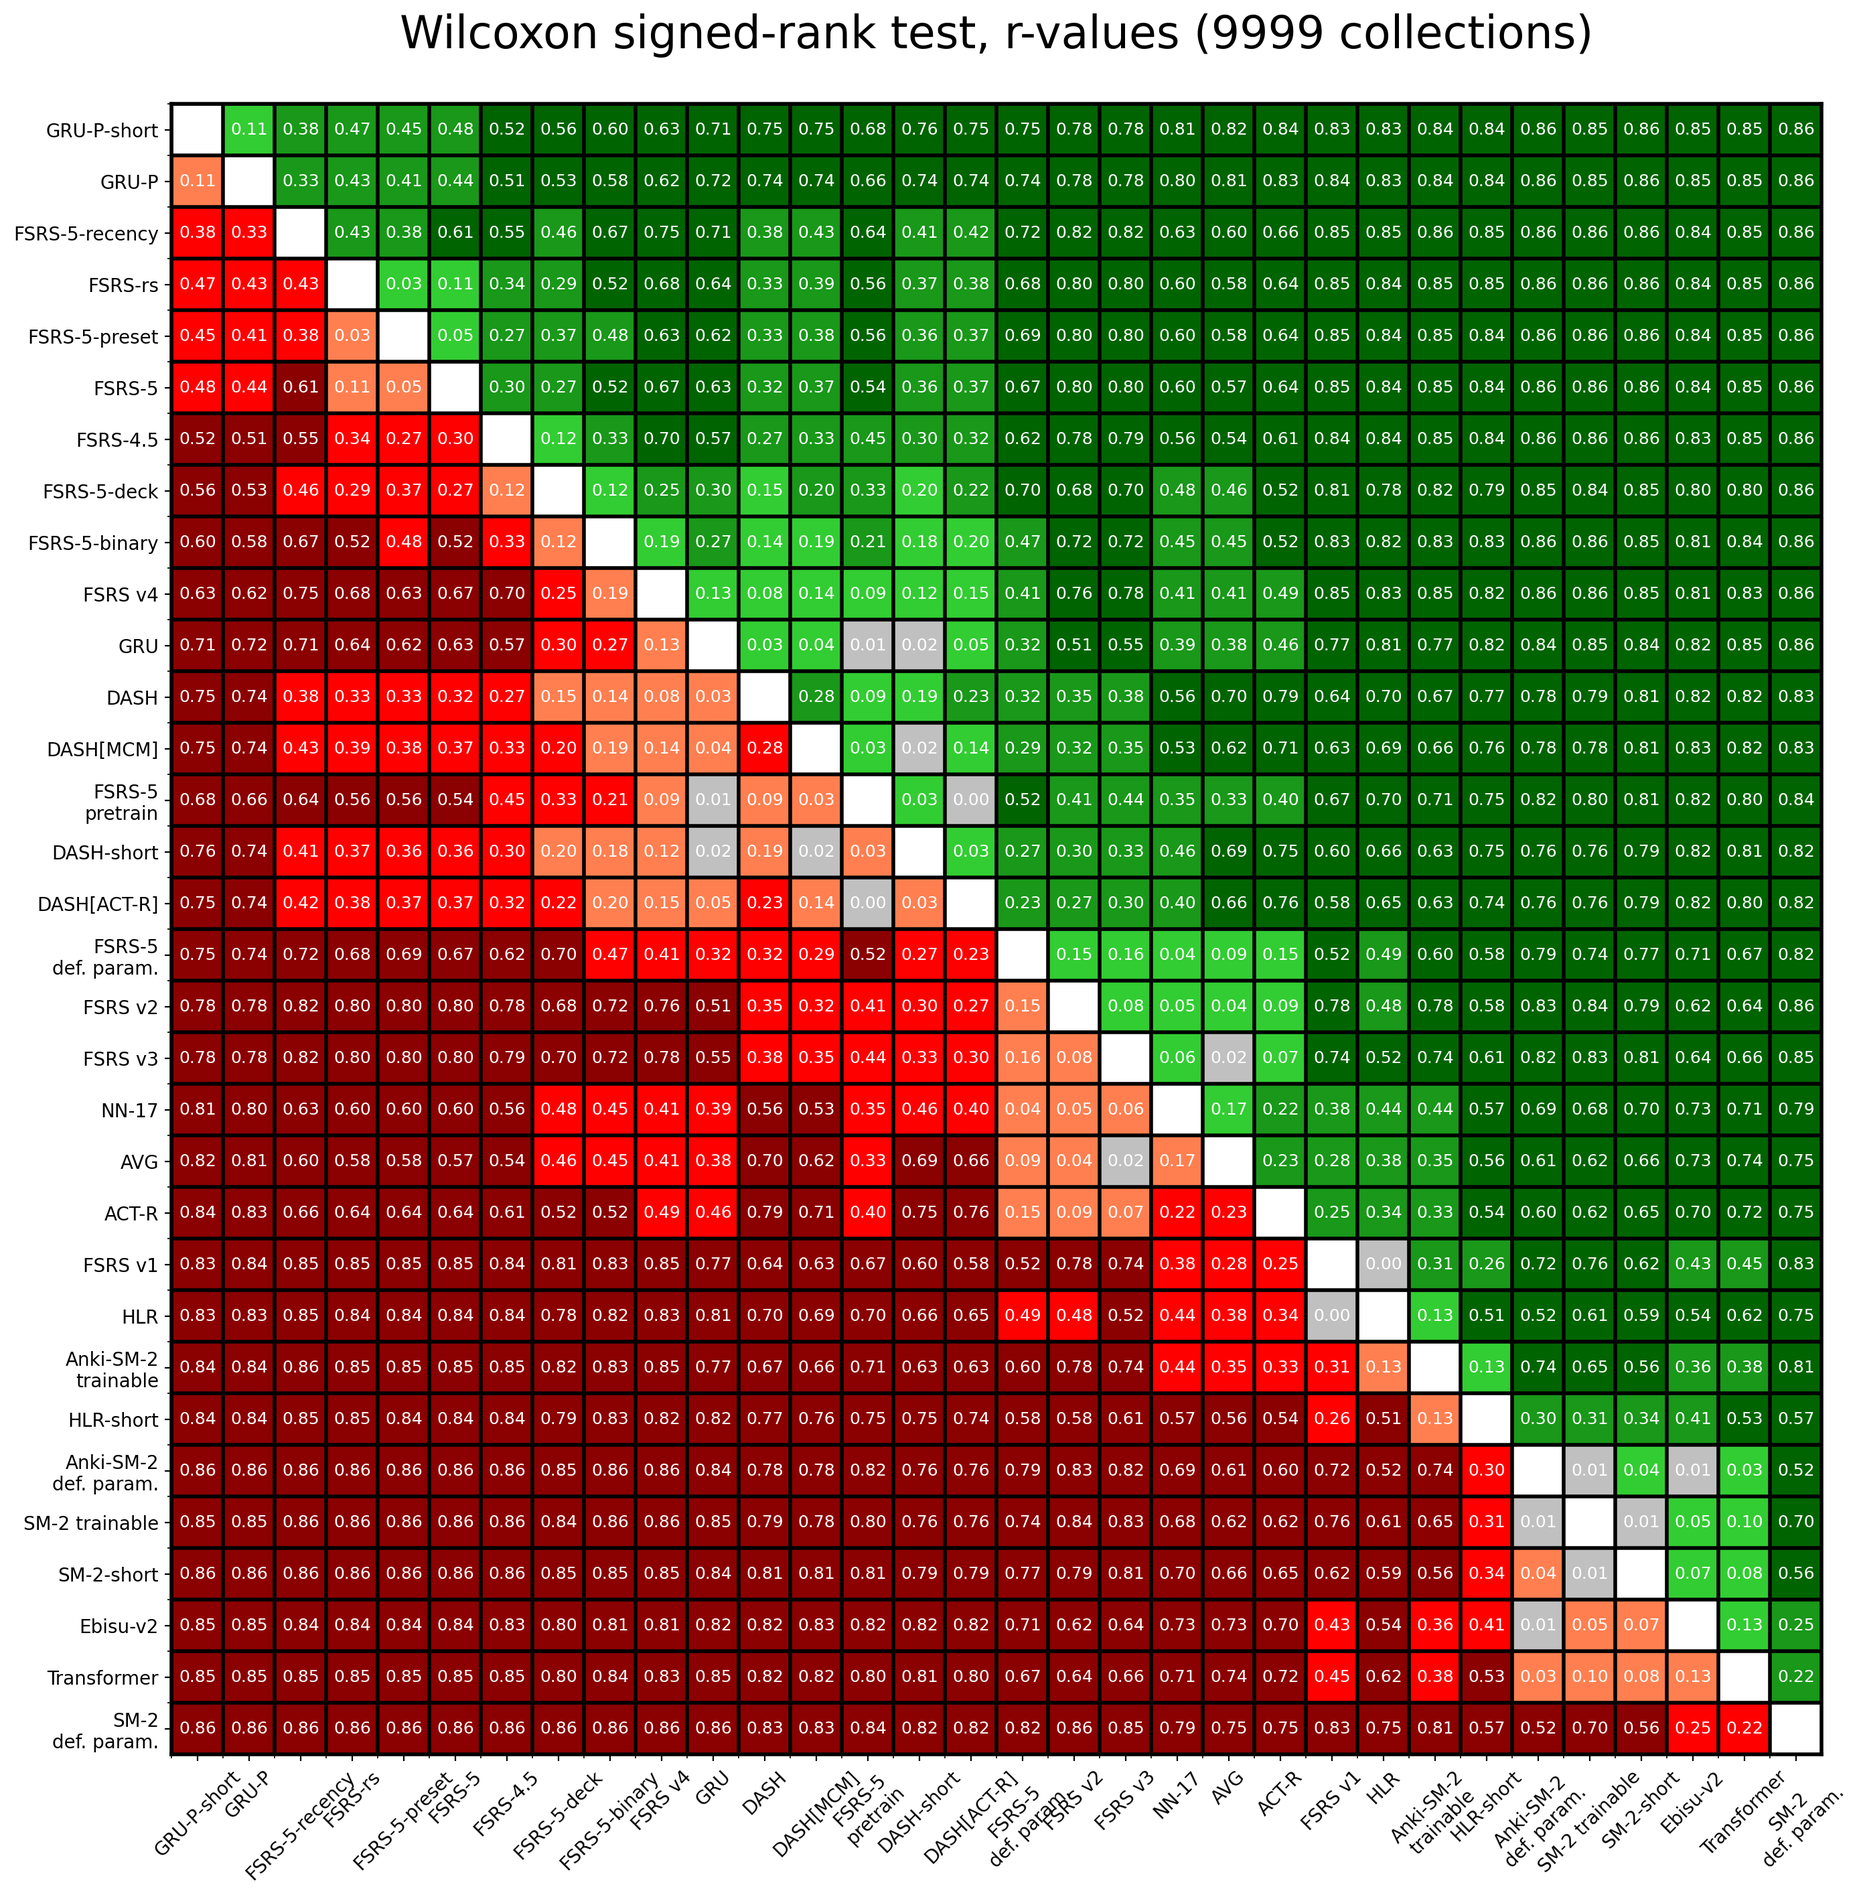
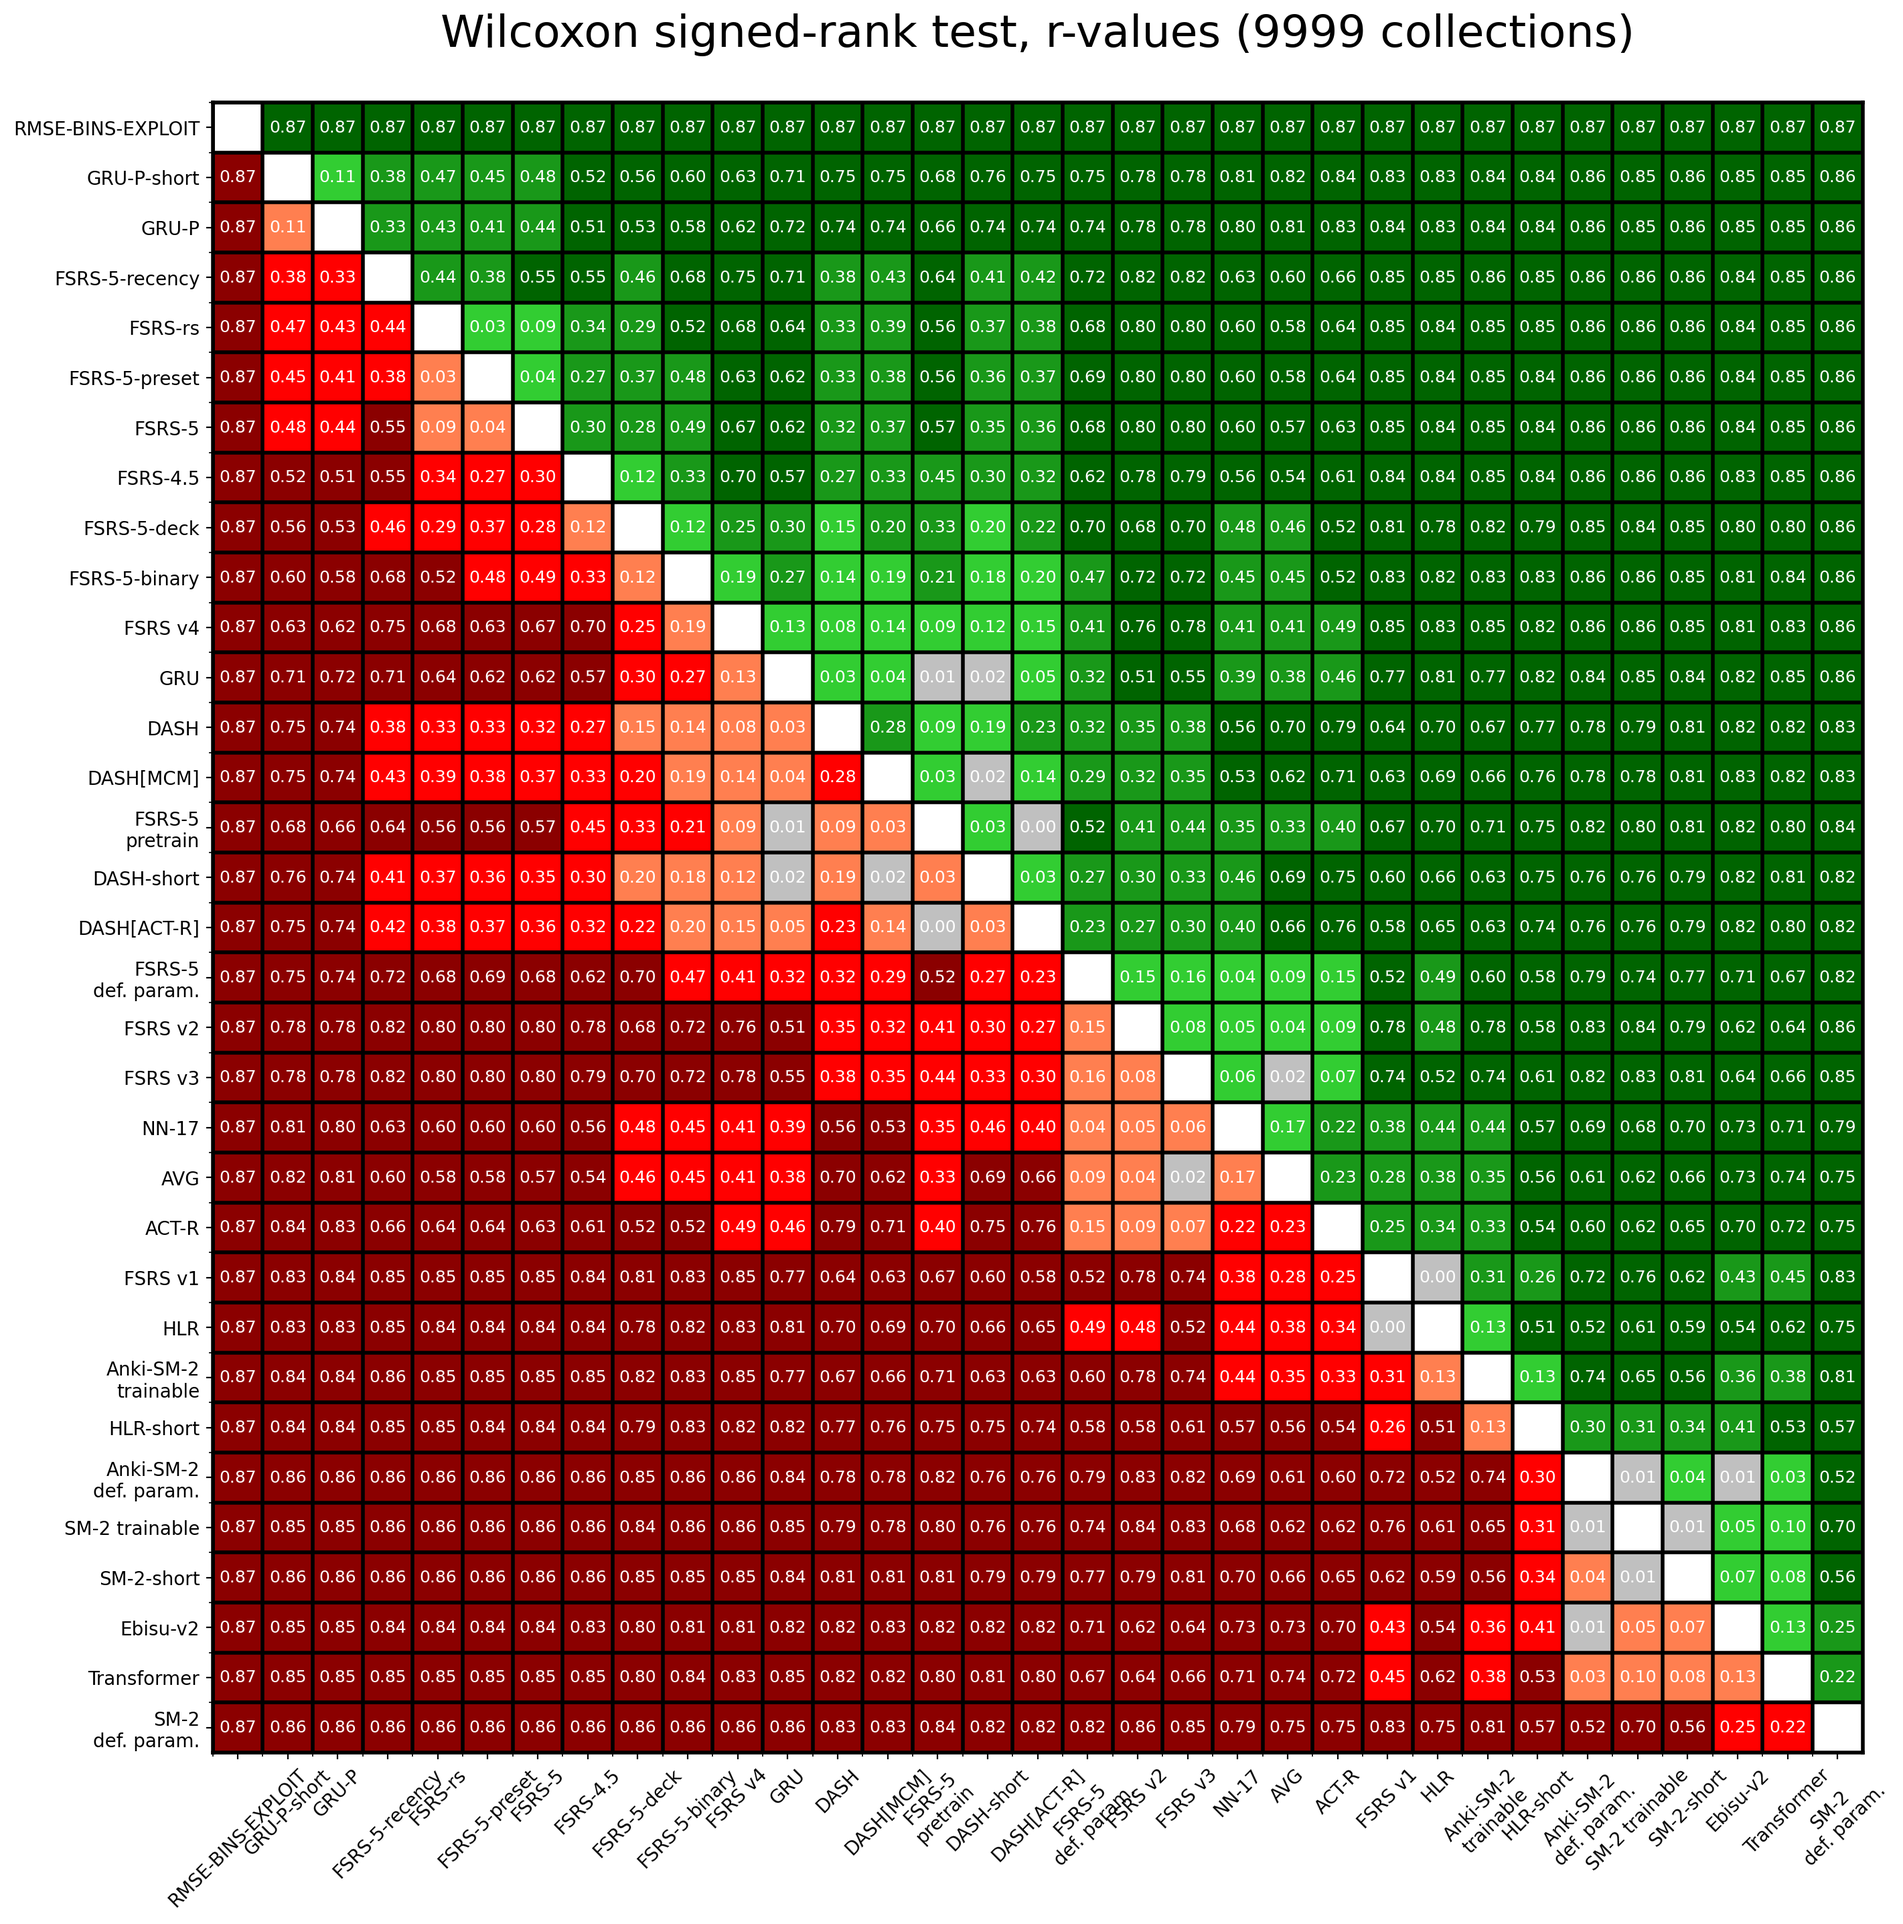
Update readme

diff --git a/README.md b/README.md
@@ -55,6 +55,7 @@ We use three metrics in the SRS benchmark to evaluate how well these algorithms 
 - NN-17: a neural network approximation of [SM-17](https://supermemo.guru/wiki/Algorithm_SM-17). It has a comparable number of parameters, and according to our estimates, it performs similarly to SM-17.
 - Ebisu v2: [an algorithm that uses Bayesian statistics](https://fasiha.github.io/ebisu/) to update its estimate of memory half-life after every review.
 - AVG: an "algorithm" that outputs a constant equal to the user's average retention. Has no practical applications and is intended only to serve as a baseline.
+- RMSE-BINS-EXPLOIT: An algorithm that exploits the calculation of rmse(bins) by simulating the bins and keeping the error term close to 0.
 
 If an algorithm has "-short" at the end of its name, it means that it uses data from same-day reviews as well.
 
@@ -73,7 +74,8 @@ The following tables present the means and the 99% confidence intervals. The bes
 
 | Model | Parameters | LogLoss | RMSE (bins) | AUC |
 | --- | --- | --- | --- | --- |
-| **GRU-P-short** | 297 | **0.320±0.0080** | **0.042±0.0013** | **0.710±0.0047** |
+| **RMSE-BINS-EXPLOIT** | 0 | 4.5±0.13 | **0.0062±0.00022** | 0.638±0.0040 |
+| **GRU-P-short** | 297 | **0.320±0.0080** | 0.042±0.0013 | **0.710±0.0047** |
 | GRU-P | 297 | 0.325±0.0081 | 0.043±0.0013 | 0.699±0.0046 |
 | FSRS-5 recency | 19 | 0.326±0.0080 | 0.049±0.0014 | 0.704±0.0042 |
 | FSRS-5 preset | 19 | 0.328±0.0083 | 0.051±0.0015 | 0.702±0.0043 |
@@ -110,7 +112,8 @@ The following tables present the means and the 99% confidence intervals. The bes
 
 | Model | Parameters | Log Loss | RMSE (bins) | AUC |
 | --- | --- | --- | --- | --- |
-| **GRU-P-short** | 297 | **0.346±0.0042** | **0.062±0.0011** | 0.699±0.0026 |
+| **RMSE-BINS-EXPLOIT** | 0 | 4.61±0.067 | **0.0135±0.00028** | 0.655±0.0021 |
+| **GRU-P-short** | 297 | **0.346±0.0042** | 0.062±0.0011 | 0.699±0.0026 |
 | GRU-P | 297 | 0.352±0.0042 | 0.063±0.0011 | 0.687±0.0025 |
 | **FSRS-5 recency** | 19 | 0.355±0.0043 | 0.072±0.0012 | **0.701±0.0023** |
 | FSRS-rs | 19 | 0.356±0.0045 | 0.074±0.0012 | 0.698±0.0023 |
